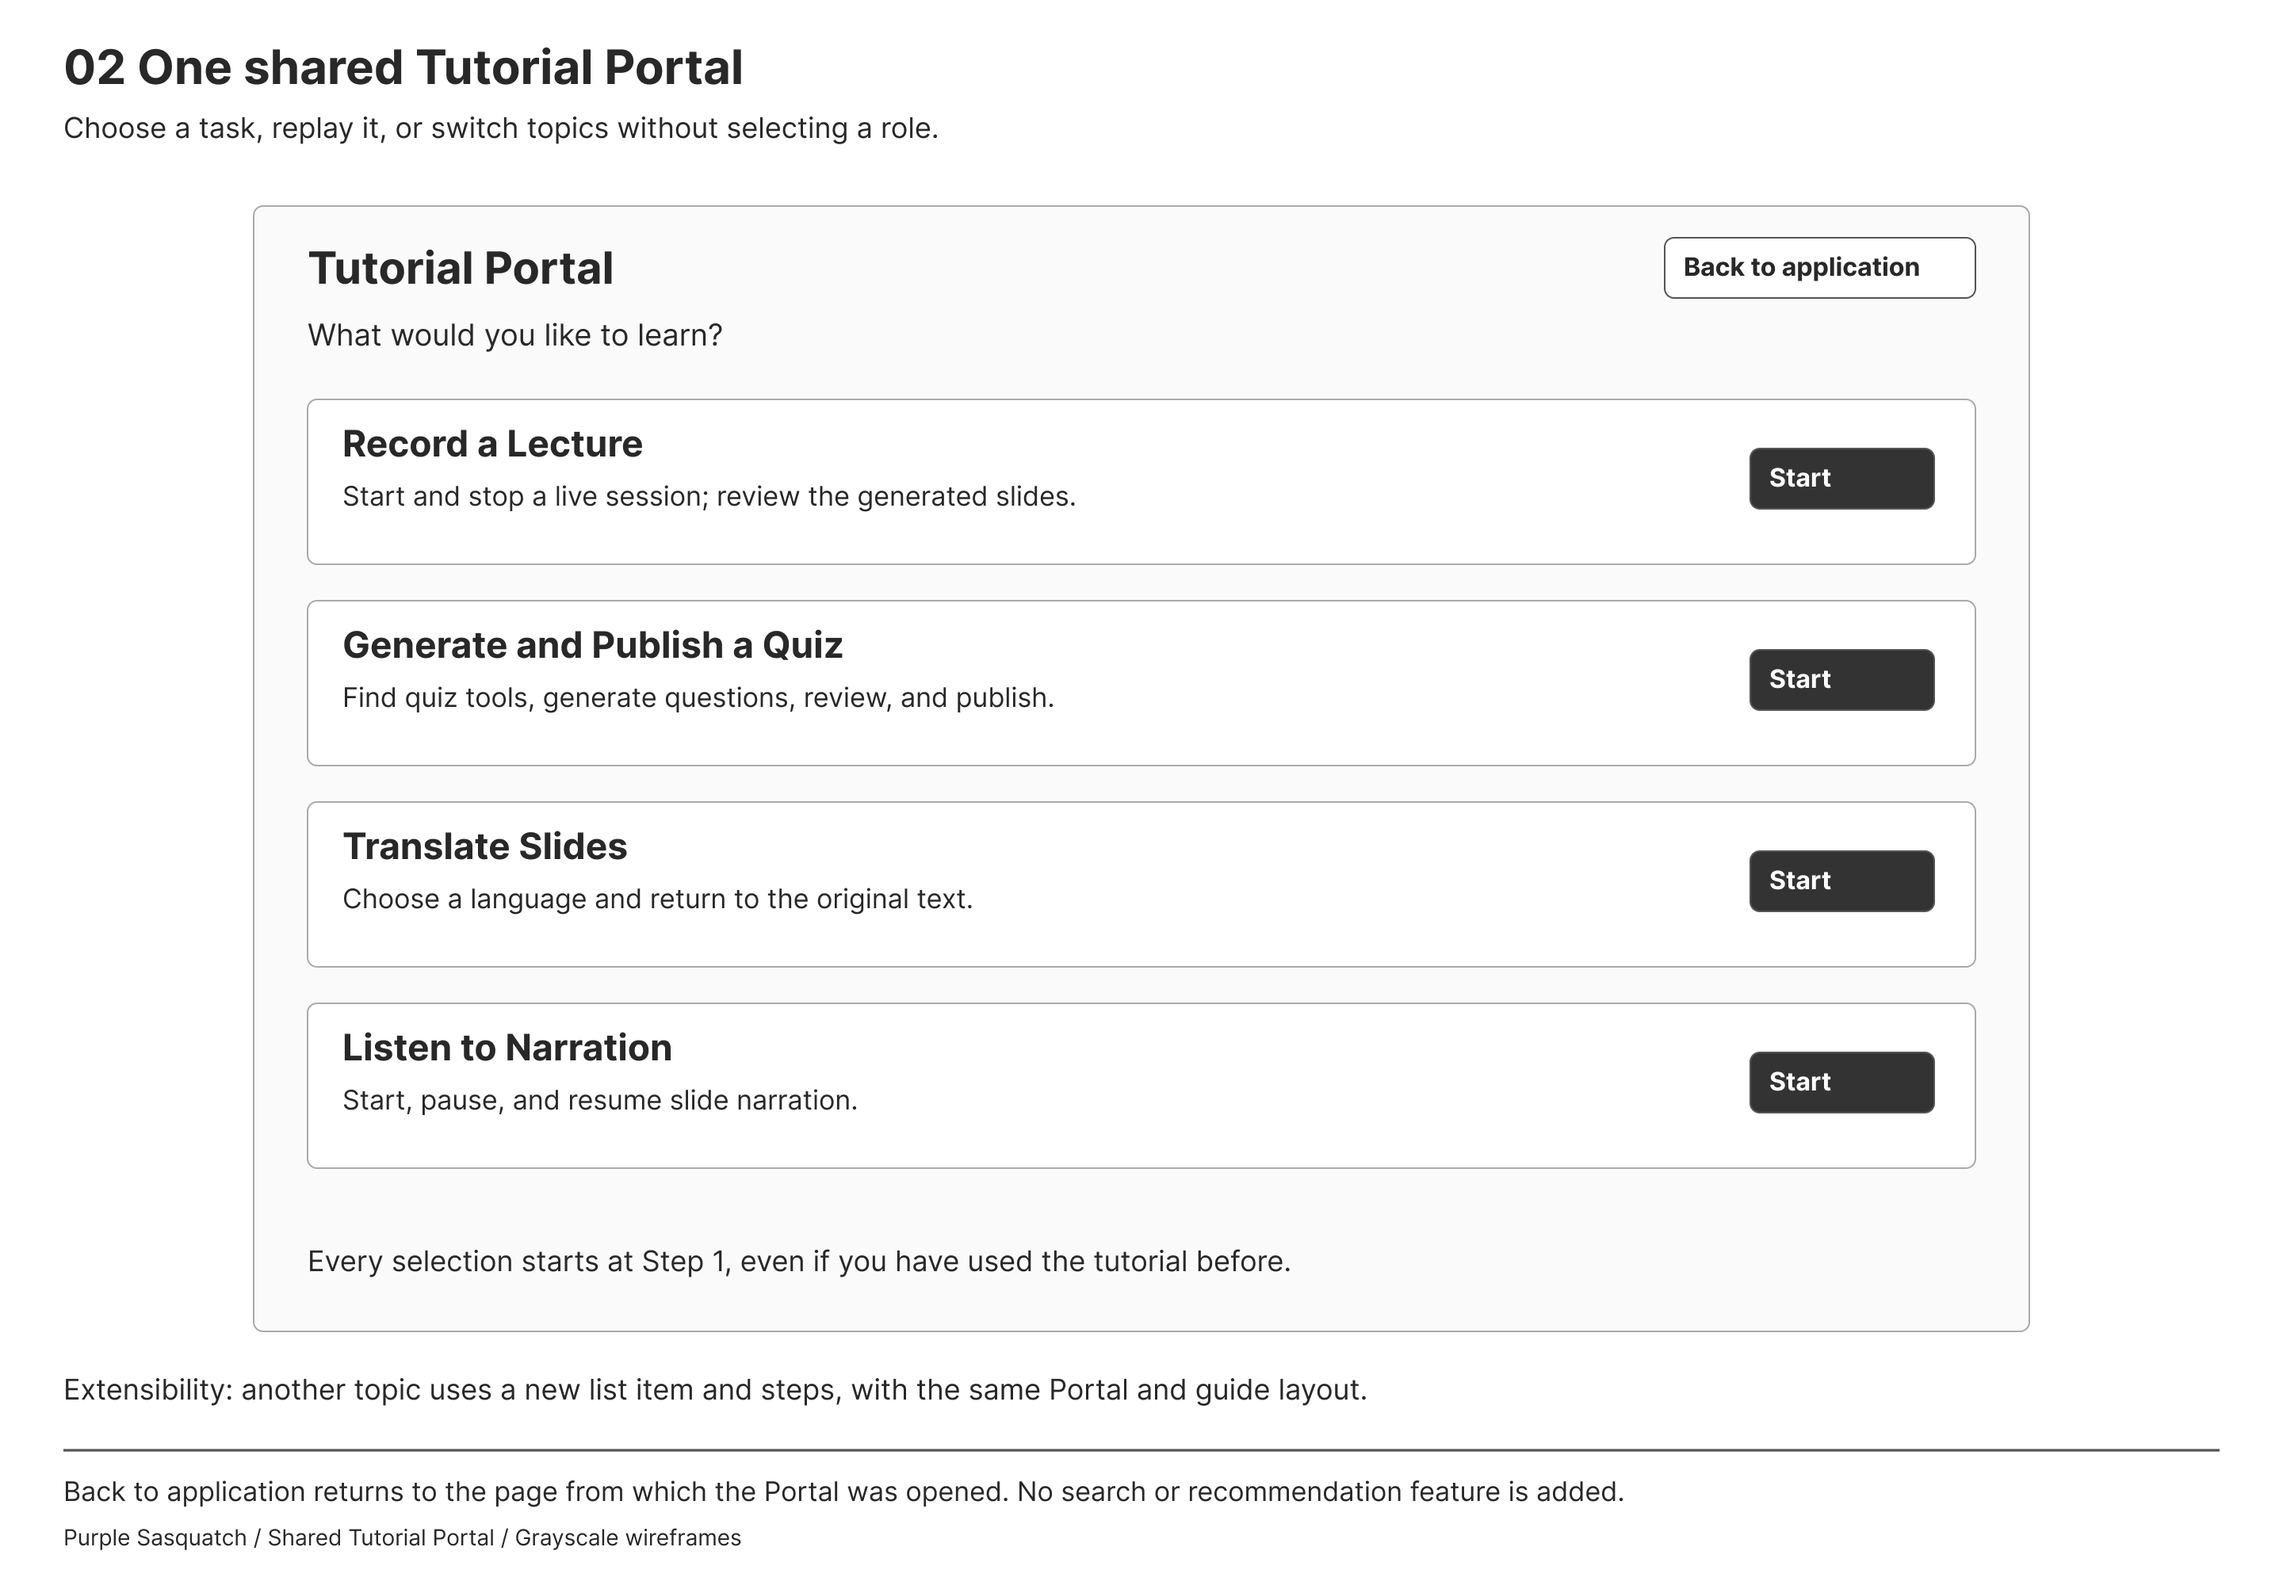
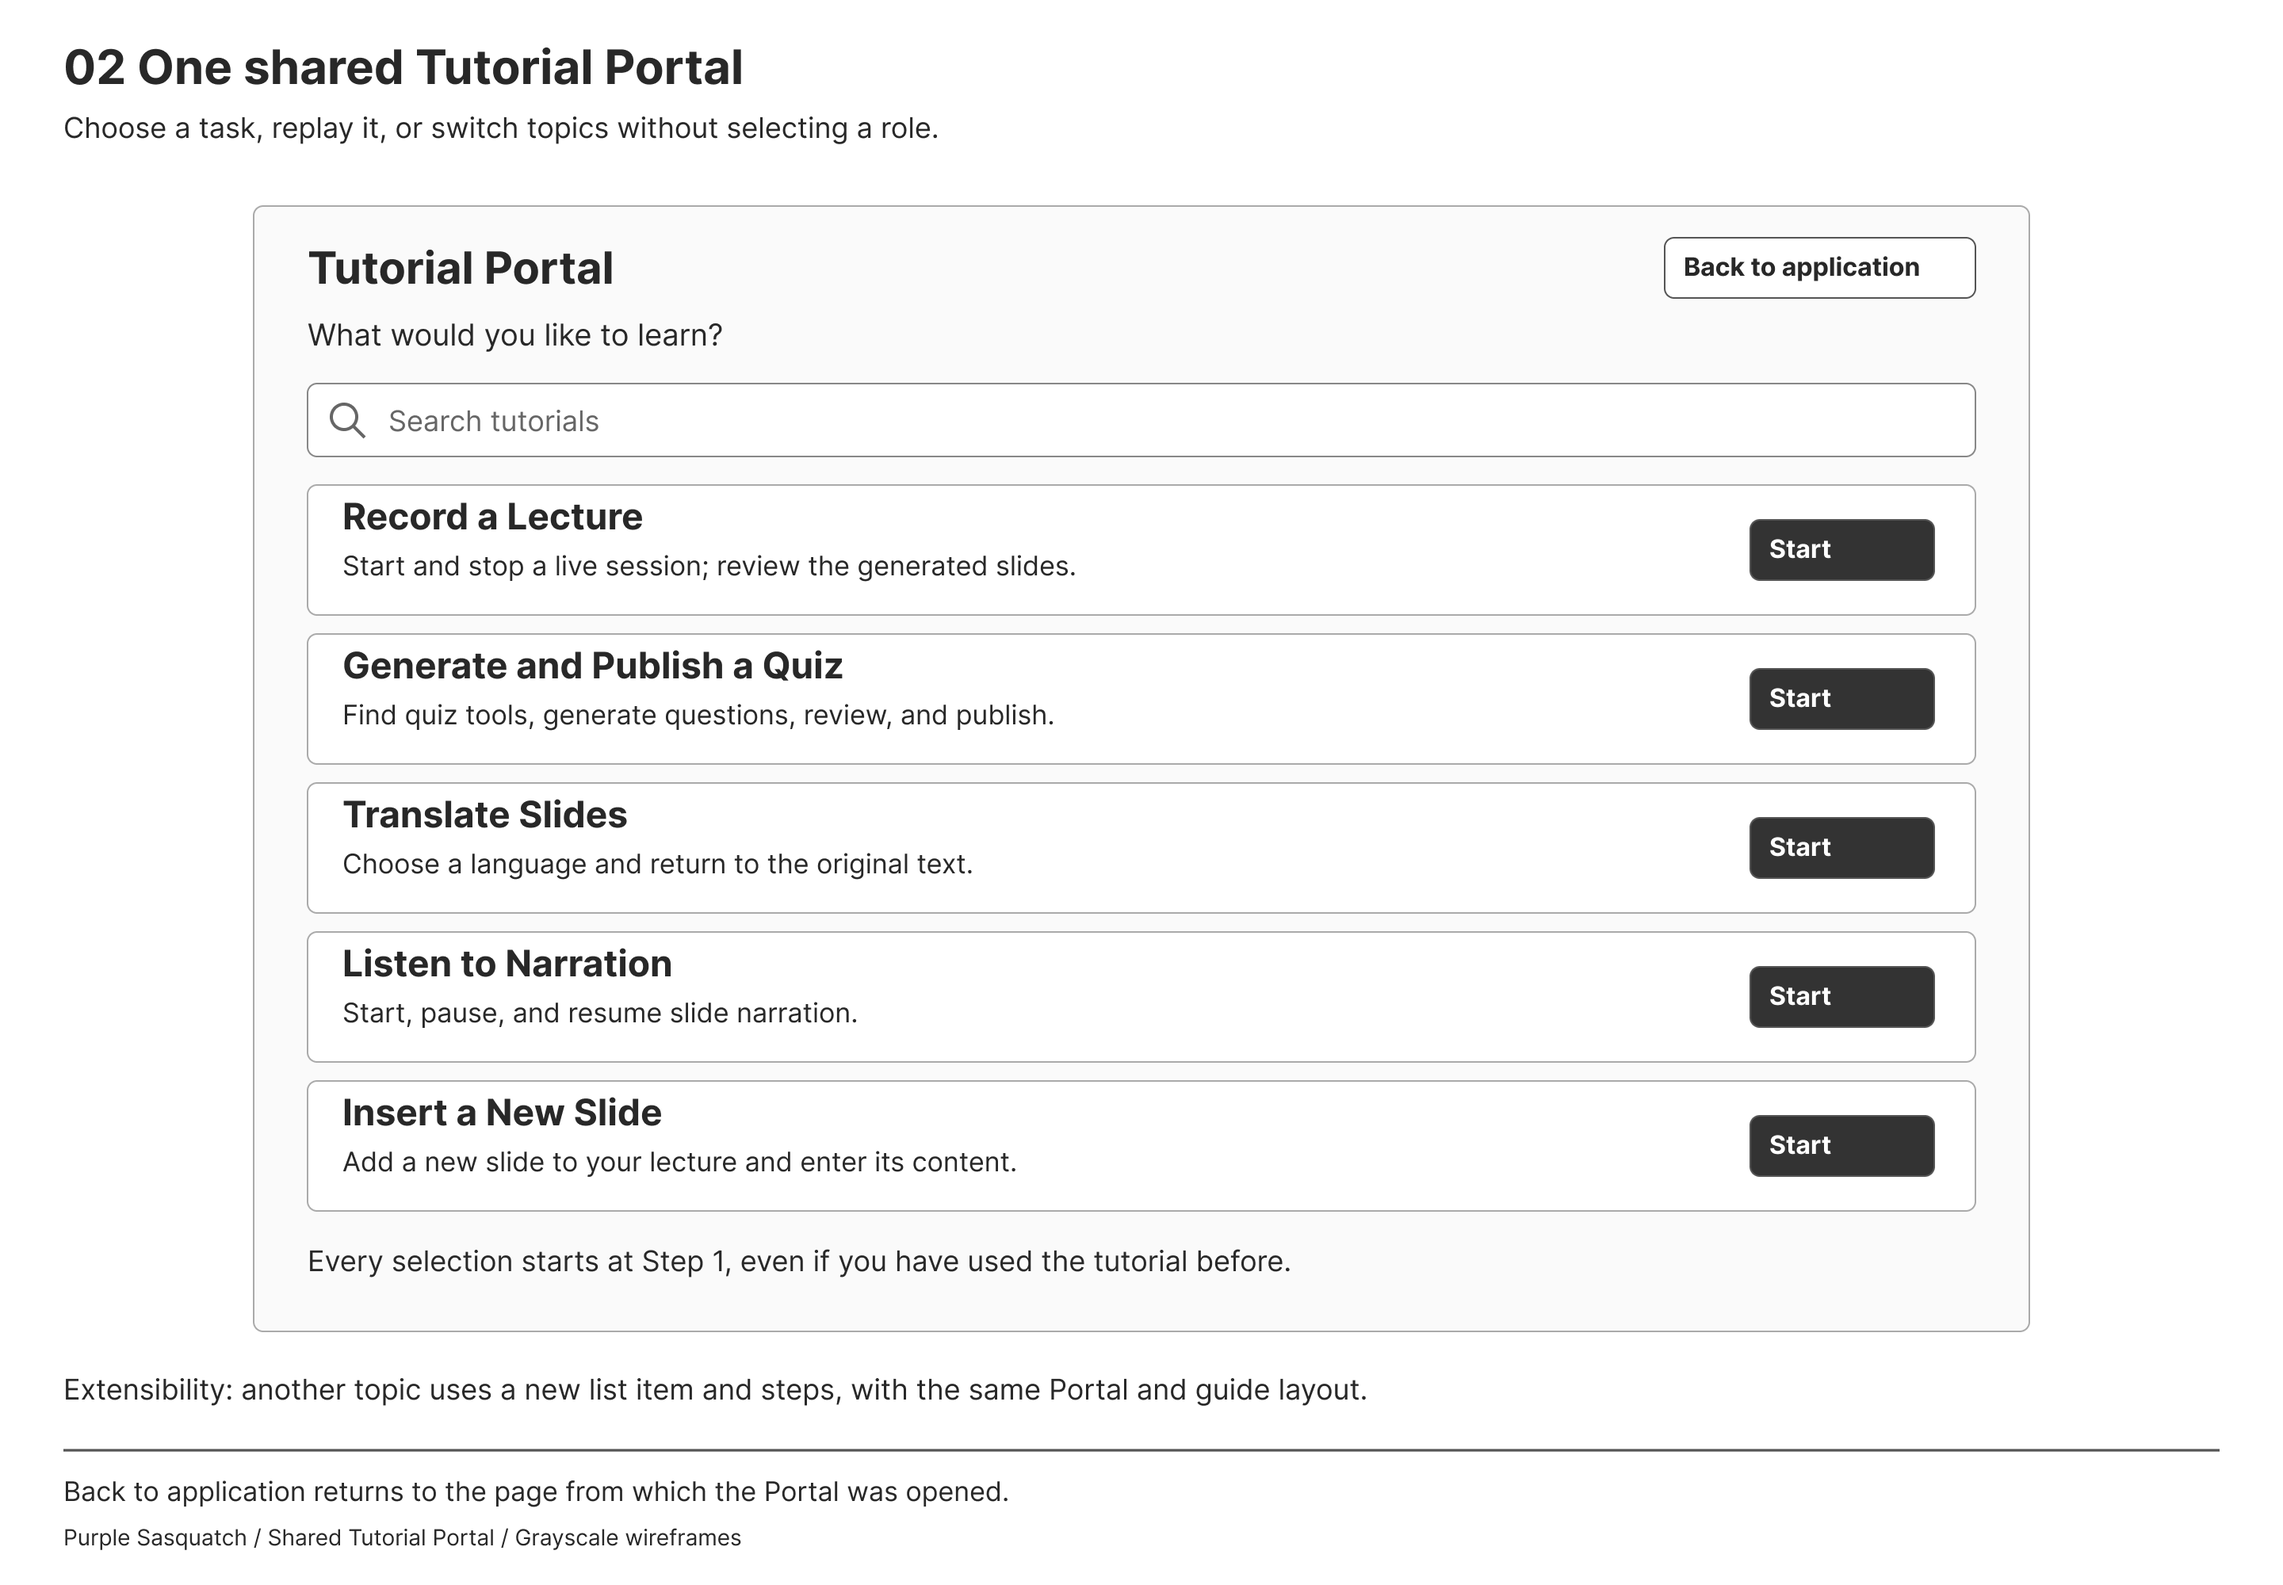
Add tutorial search and an Insert a New Slide entry to the shared Portal wireframe

diff --git a/README.md b/README.md
@@ -474,9 +474,9 @@ The lecture page and shared deck use the proposed **Tutorials** item in the exis
 
 ![Shared Tutorial Portal wireframe](images/wireframes/02-shared-tutorial-portal.png)
 
-A single list offers **Record a Lecture**, **Generate and Publish a Quiz**, **Translate Slides**, and **Listen to Narration**. **Start** opens the selected topic at Step 1, including when replaying it. **Back to application** returns to the application context from which the Portal was opened.
+A single list offers **Record a Lecture**, **Generate and Publish a Quiz**, **Translate Slides**, **Listen to Narration**, and **Insert a New Slide**. The **Search tutorials** field lets users find a topic in the list. **Start** opens the selected topic at Step 1, including when replaying it. **Back to application** returns to the application context from which the Portal was opened.
 
-Adding a topic such as “Insert a New Slide” means adding another list item and its steps, using the same guide layout.
+**Insert a New Slide** is included as another tutorial entry to demonstrate extensibility. Additional topics use the same list-item format and guide layout, with their own instructional steps.
 
 ### 3. Instructor guide examples
 
